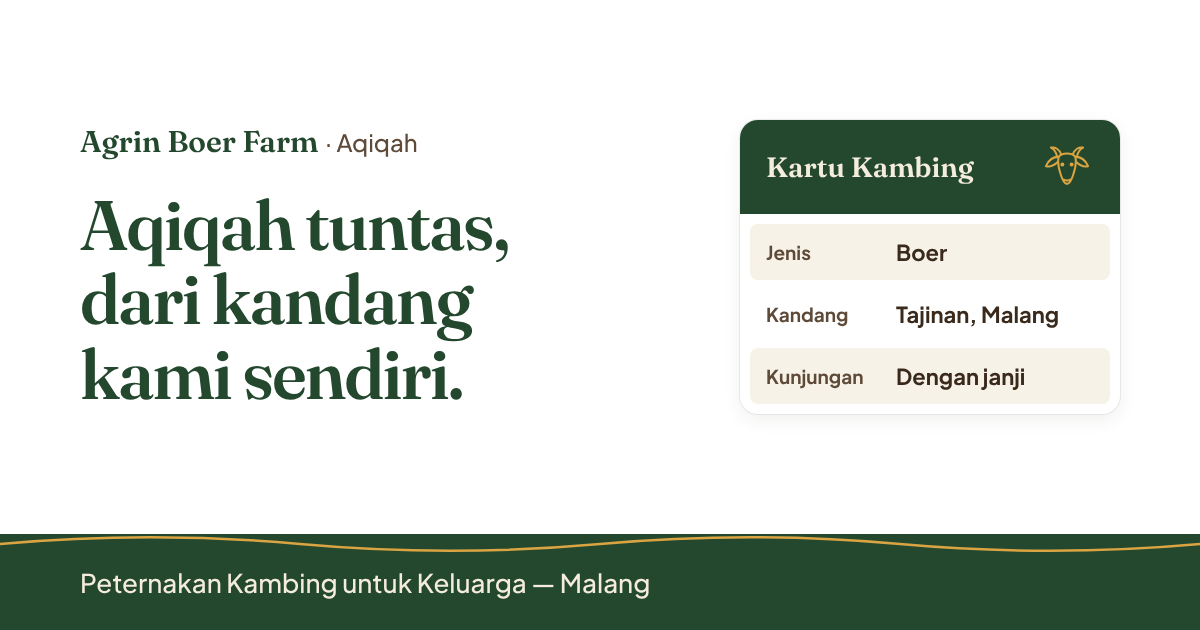
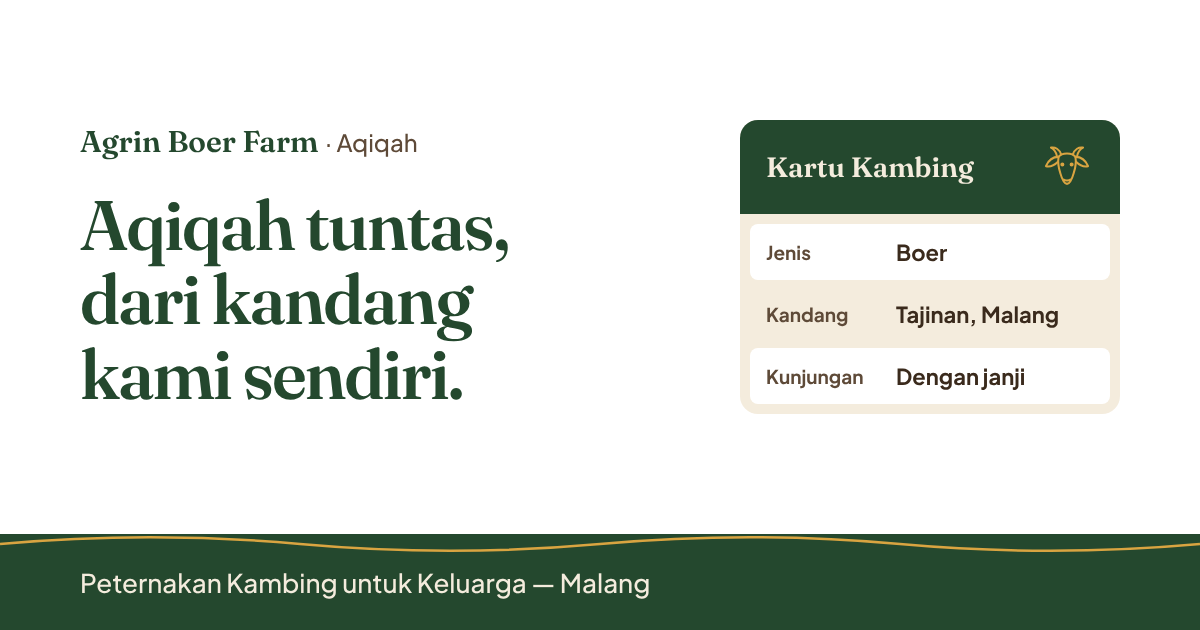
Tema putih: kartu krem dengan baris putih supaya terpisah dari latar halaman
Claude-Session: https://claude.ai/code/session_018NoNXgptYRyF1cWCjix1N5

Changed region(s): [[0.6167, 0.3317, 0.9558, 0.6635]]

diff --git a/site/index.html b/site/index.html
@@ -142,7 +142,7 @@
   }
   .slot-foto {
     position: relative; display: grid; place-items: center; text-align: center; gap: var(--sp-2);
-    aspect-ratio: 4 / 3; padding: var(--sp-5); background: var(--bg-tua); color: var(--teks-lembut);
+    aspect-ratio: 4 / 3; padding: var(--sp-5); background: var(--bg-slot); color: var(--teks-lembut);
     font-size: 0.9375rem;
   }
   .slot-foto svg { width: 88px; height: 88px; color: var(--emas-tua); opacity: 0.85; }
@@ -185,7 +185,7 @@
   .pilihan { display: flex; gap: var(--sp-2); flex-wrap: wrap; }
   .pilihan label {
     position: relative; display: inline-flex; align-items: center; min-height: var(--target-min);
-    padding: 0 var(--sp-4); border-radius: var(--radius-isian); background: var(--bg-kartu);
+    padding: 0 var(--sp-4); border-radius: var(--radius-isian); background: var(--bg-isian);
     box-shadow: inset 0 0 0 1.5px var(--garis); cursor: pointer; font-weight: 500;
     transition: box-shadow var(--dur-cepat) var(--ease), background-color var(--dur-cepat) var(--ease);
   }
@@ -195,7 +195,7 @@
   .pilihan label:has(input:focus-visible) { outline: 3px solid var(--fokus); outline-offset: 3px; }
   .isian {
     min-height: var(--target-min); width: 9rem; padding: 0 var(--sp-4); border-radius: var(--radius-isian);
-    border: 0; box-shadow: inset 0 0 0 1.5px var(--garis); background: var(--bg-kartu);
+    border: 0; box-shadow: inset 0 0 0 1.5px var(--garis); background: var(--bg-isian);
     font: inherit; color: var(--teks); font-variant-numeric: tabular-nums;
   }
   .isian:hover { box-shadow: inset 0 0 0 1.5px var(--hijau-kandang); }

diff --git a/site/tokens.css b/site/tokens.css
@@ -20,6 +20,8 @@
   --bg-tua: var(--krem-tua);
   --bg-baris: var(--krem-jerami);           /* baris belang di dalam kartu */
   --bg-blok: var(--krem-kartu);             /* blok lepas di atas latar halaman (ketentuan, FAQ) */
+  --bg-slot: var(--krem-tua);               /* slot foto di dalam kartu */
+  --bg-isian: var(--krem-kartu);            /* pilihan & kolom isian pemilih paket */
   --bg-bidang: var(--hijau-kandang);
   --bg-footer: var(--hijau-kandang-gelap);
   --teks: var(--cokelat-tanduk);            /* 11,71:1 krem · 12,86:1 kartu · 10,40:1 krem tua */
@@ -96,14 +98,16 @@
 }
 
 /* Alternatif latar putih (diminta pengguna 5 Nov 2026). Aktif lewat ?tema=putih; tema krem tetap default.
-   Kontras: teks 13,74 · teks lembut 8,36 · emas tua 5,49 · judul 10,29 di #FFF; baris/blok ≥4,9 untuk emas tua. */
+   Kontras: teks 13,74 · teks lembut 8,36 · emas tua 5,49 · judul 10,29 di #FFF; di kartu krem: teks 11,71 · emas tua 4,68. */
 :root[data-tema="putih"] {
   --bg: #FFFFFF;
-  --bg-kartu: #FFFFFF;
-  --bg-baris: #F7F2E8;
+  --bg-kartu: var(--krem-jerami);   /* kartu krem di atas halaman putih (opsi A, 5 Nov 2026) */
+  --bg-baris: #FFFFFF;              /* baris belang putih di dalam kartu krem */
   --bg-blok: #F8F4EC;
   --bg-tua: var(--krem-jerami);
-  --bayangan-kartu: 0 0 0 1px rgb(58 42 28 / 0.08), 0 6px 18px rgb(58 42 28 / 0.07);
+  --bg-slot: var(--krem-tua);
+  --bg-isian: #FFFFFF;
+  --bayangan-kartu: none;
 }
 
 @media (prefers-reduced-motion: reduce) {

diff --git a/Landing Page Project/agrin-boer-farm/project.md b/Landing Page Project/agrin-boer-farm/project.md
@@ -77,6 +77,7 @@ Status yang dipakai: `belum` · `selesai` · `menunggu klien` · `[dilewati] —
 
 | Tanggal | Yang diubah | Dari → Ke | Alasan | Disetujui |
 |---|---|---|---|---|
+| 2026-11-05 | Kartu di tema putih | kartu putih + belang krem pucat → kartu Krem Jerami + baris putih, tanpa bayangan (opsi A) | Kartu menyatu dengan latar putih (analisis ui-ux-analyzer, severity 3) | Pengguna |
 | 2026-11-05 | Latar halaman (alternatif) | krem saja → krem (default) + alternatif putih lewat `?tema=putih` | Diminta pengguna untuk dibandingkan; tema krem belum diganti | Pengguna |
 | 2026-11-05 | Stack & lokasi file | Tailwind CDN, file di folder project → tanpa Tailwind, file publik di `site/` | Tailwind tidak terpakai (±270KB JS); dokumen internal tidak boleh ikut tayang di Cloudflare Pages | Pengguna |
 | 2026-11-04 | Sumber gambar | Foto asli saja (brand-strategy) → gambar AI/stock sementara | Foto asli belum ada; pengguna akan mengganti sendiri | Pengguna |
